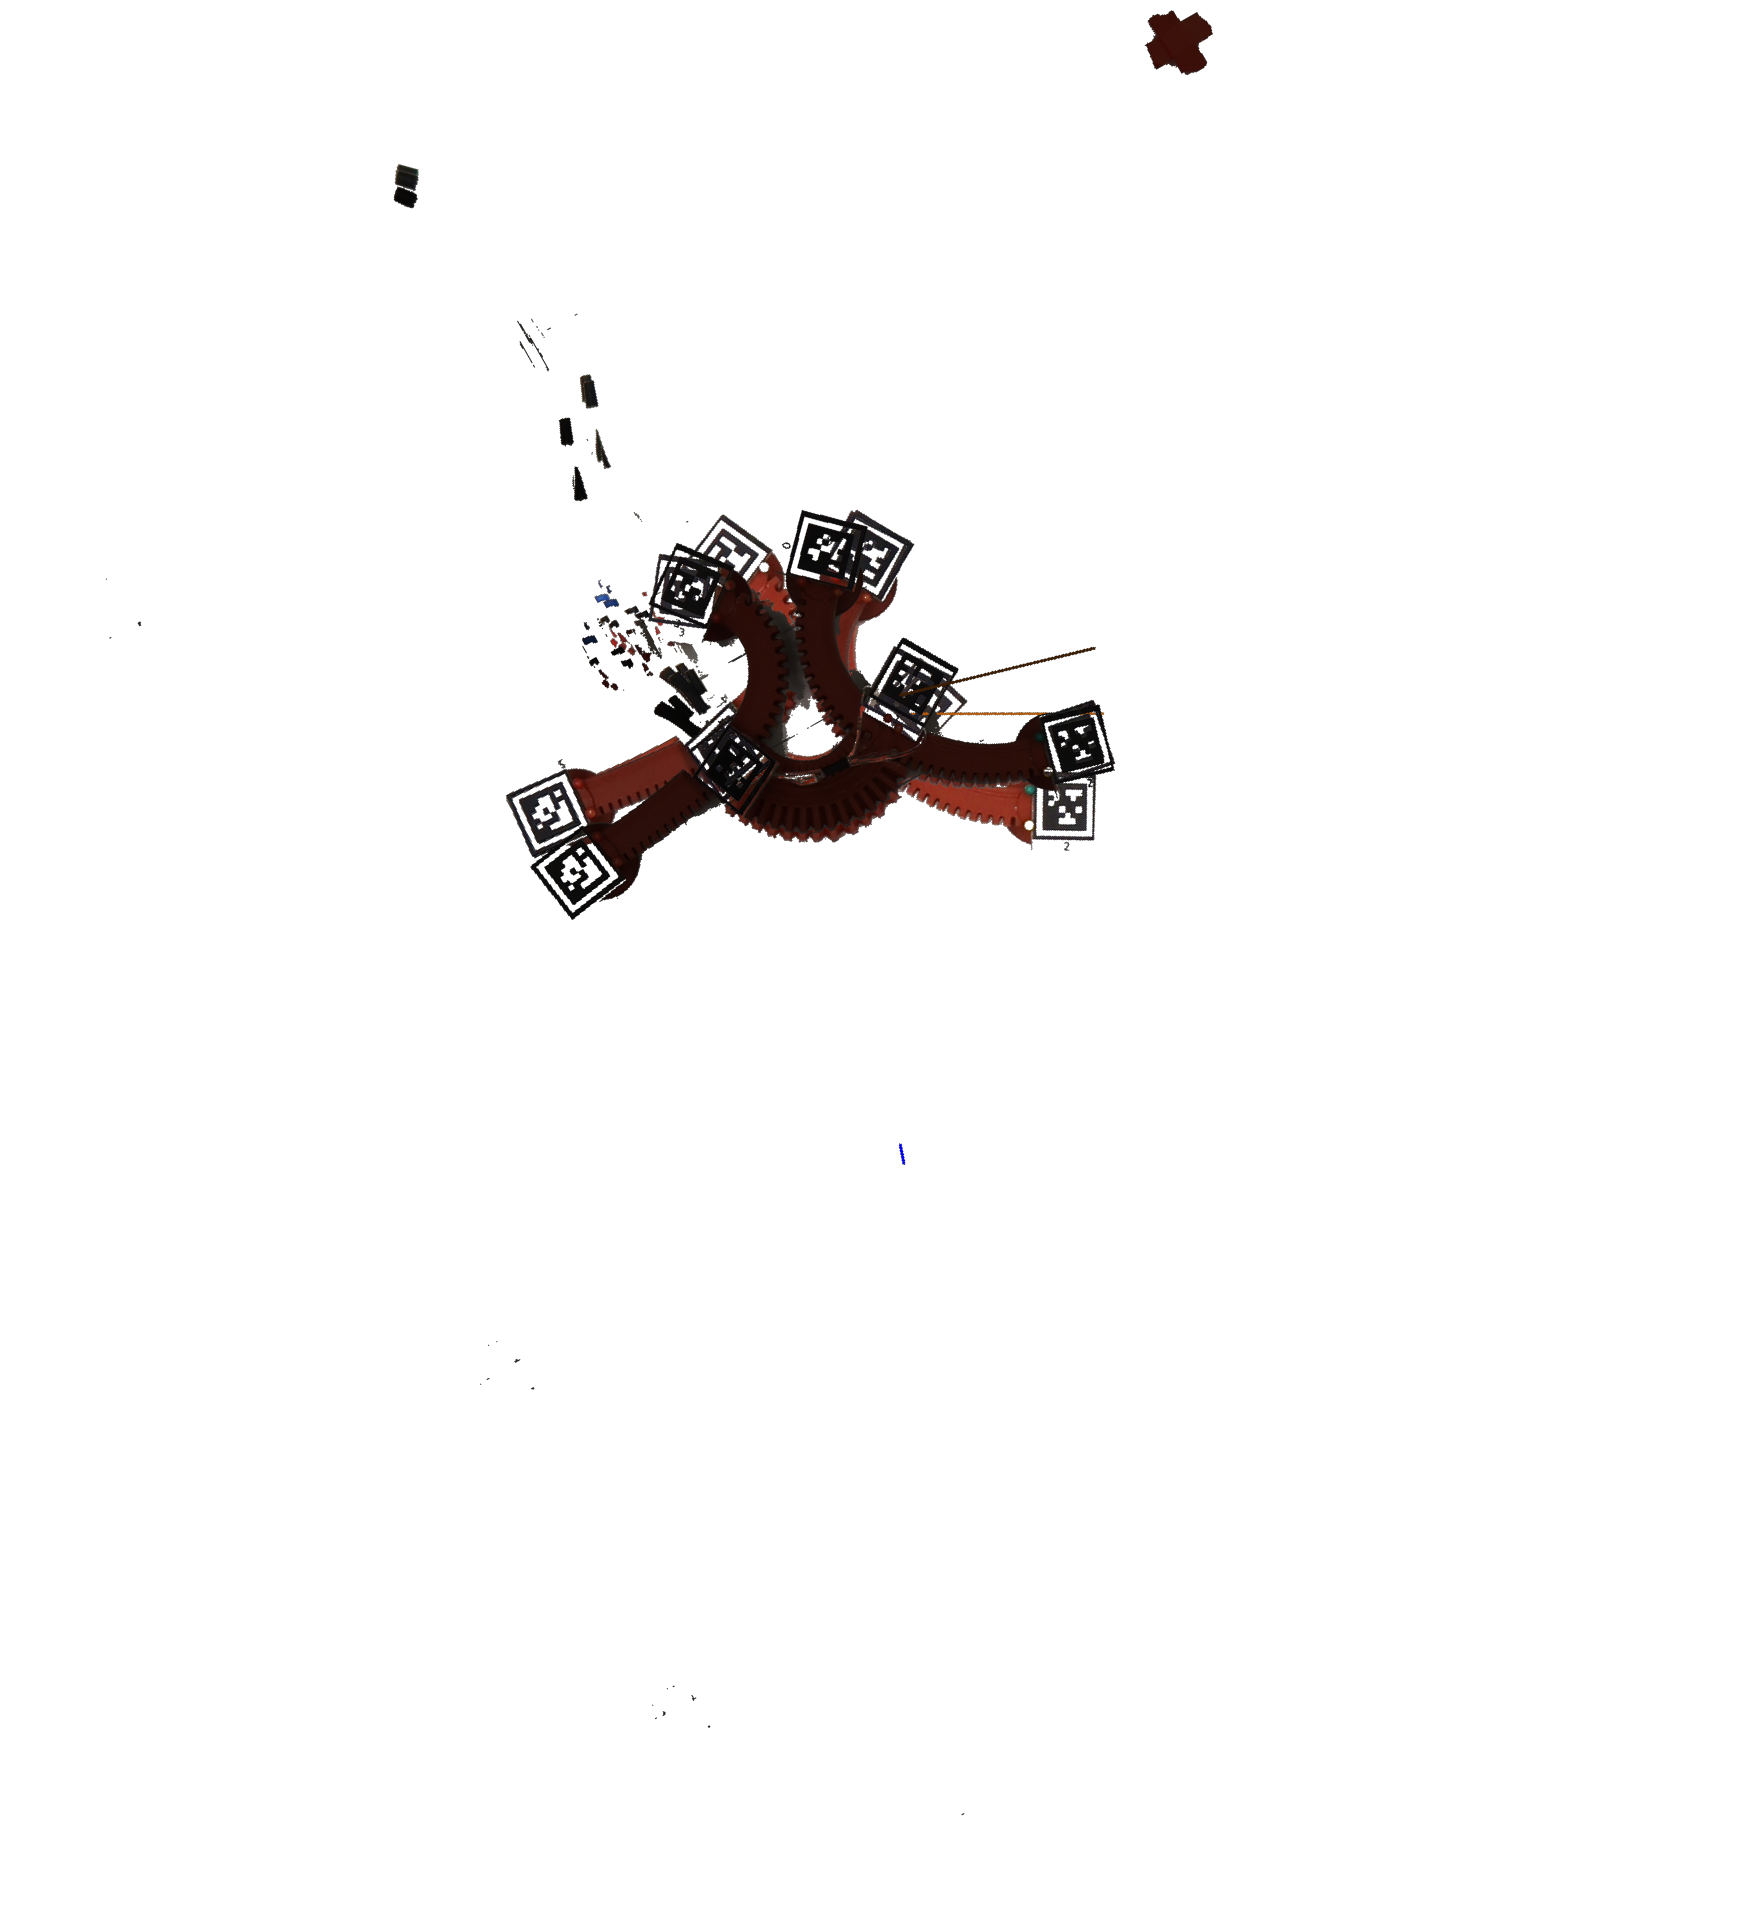
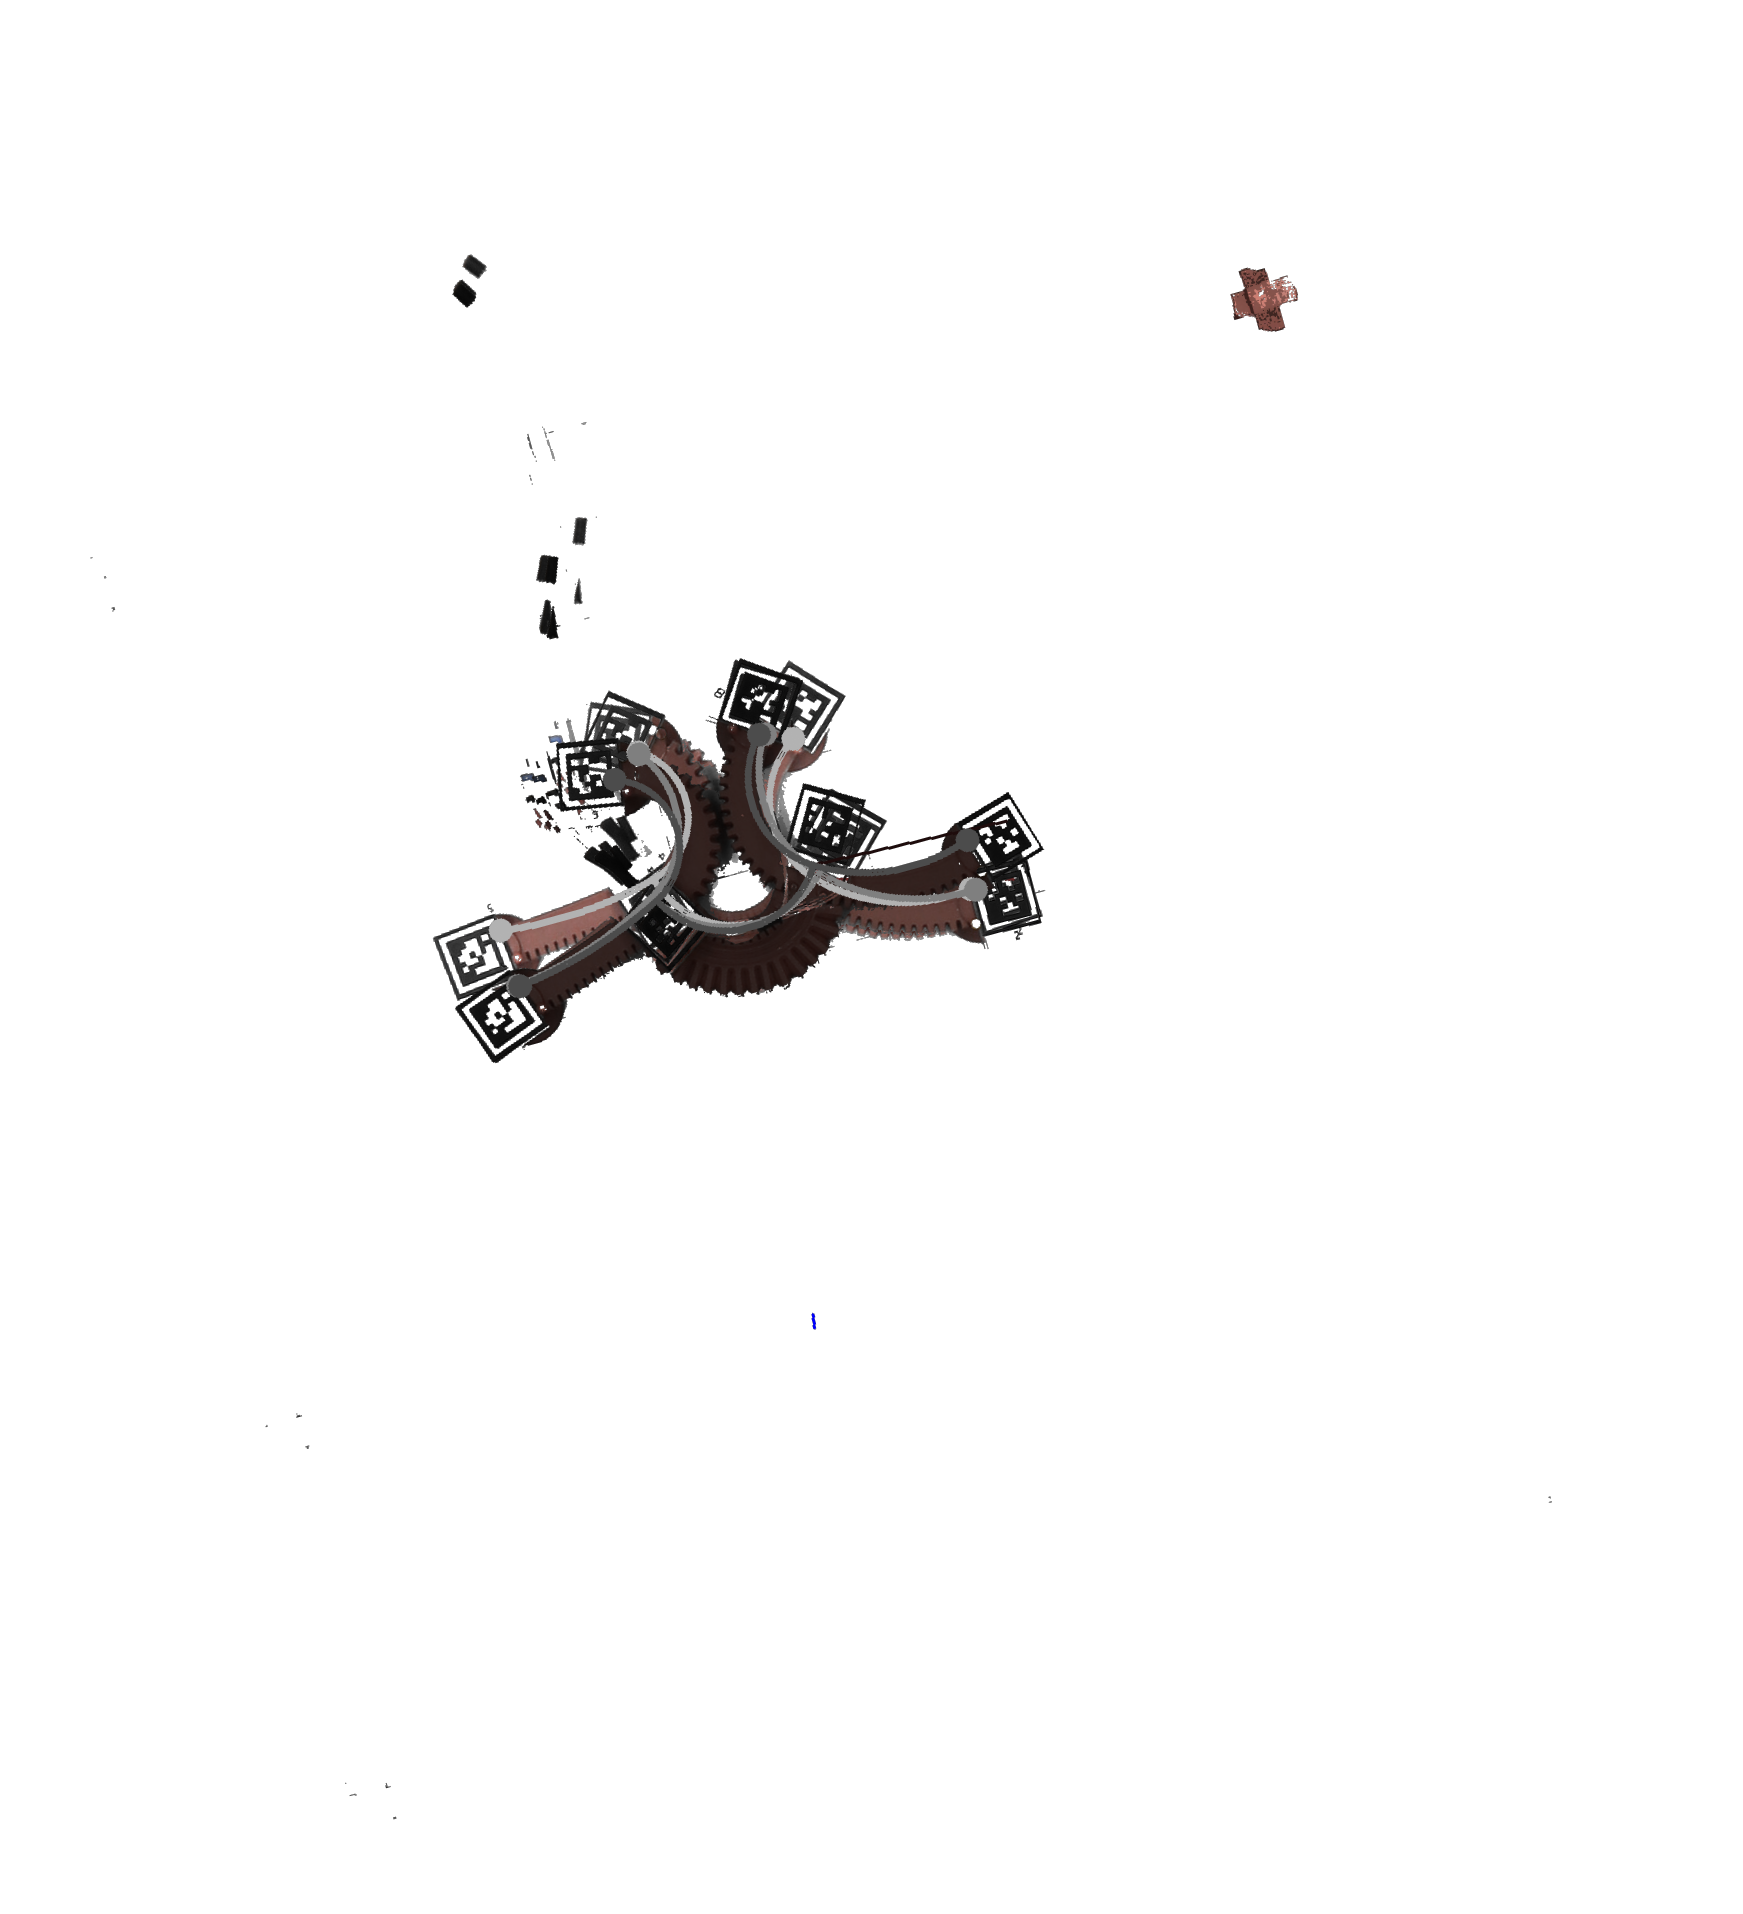
ref RALexp eval: add extracted poses

diff --git a/2020_08_RALexpRedo/eval_pics.py b/2020_08_RALexpRedo/eval_pics.py
@@ -7,6 +7,7 @@ Created on Mon Aug  3 13:30:46 2020
 """
 
 import cv2
+import time
 
 import numpy as np
 
@@ -23,9 +24,9 @@ import merge_img
 
 
 modes = [
-        'straight_1',
-        'straight_2',
-        'straight_3',
+#        'straight_1',
+#        'straight_2',
+#        'straight_3',
         'curve_1',
         'curve_2',
         'curve_3',
@@ -33,7 +34,7 @@ modes = [
 
 version = 'vS12'
 
-len_leg, len_tor = [158, 190]  # in px
+len_leg, len_tor = [162, 195]  # in px
 
 ell0 = [len_leg, len_leg, len_tor, len_leg, len_leg]
 
@@ -42,7 +43,7 @@ ell0 = [len_leg, len_leg, len_tor, len_leg, len_leg]
 
 
 n_poses = 3
-start_idx = 2
+start_idx = 5  # 2 or straight | 5 for curve
 
 
 def line_normal(img_exp, point, eps, h, col=(.5,.5,.5,1)):
@@ -53,20 +54,55 @@ def line_normal(img_exp, point, eps, h, col=(.5,.5,.5,1)):
     cv2.line(img_exp, point0, point1, col, 2)
 
 
+def increase_brightness(img, value=30):
+    hsv = cv2.cvtColor(img, cv2.COLOR_BGR2HSV)
+    h, s, v = cv2.split(hsv)
+
+    lim = 255 - value
+    v[v > lim] = 255
+    v[v <= lim] += value
+
+    final_hsv = cv2.merge((h, s, v))
+    img = cv2.cvtColor(final_hsv, cv2.COLOR_HSV2BGR)
+    return img
+
+
+def change_saturation(img, value=30):
+    hsv = cv2.cvtColor(img, cv2.COLOR_BGR2HSV)
+    h, s, v = cv2.split(hsv)
+
+    if value >= 0:    
+        lim_upper = 255 - value
+        s[s > lim_upper] = 255
+        s[s <= lim_upper] += value
+    else:    
+        lim_lower = 0 - value
+        s[s < lim_lower] = 0
+        s[s >= lim_lower] -= abs(value)
+        
+    
+
+    final_hsv = cv2.merge((h, s, v))
+    img = cv2.cvtColor(final_hsv, cv2.COLOR_HSV2BGR)
+    return img
+
 
 for mode in modes:
+    poses = []
     for idx in range(n_poses):
         frame = cv2.imread('pics/'+mode+'/'+mode+'_({}).jpg'.format(idx+start_idx), 1)
+        
+        
 
         # measure
         alpha, eps, positions, xref = IMGprocessing.detect_all(frame)
         X1 = (positions[0][1], positions[1][1])
-        col = (0, 0, 0)
+        col = (0, 0, 100)
 #        IMGprocessing.draw_positions(frame, positions, xref, thick=2, col=col)
 
 #        if idx == 0:
 #            IMGprocessing.draw_eps(frame, X1, eps, color=col, dist=70, thick=2)
-#        IMGprocessing.draw_pose(frame, alpha, eps, positions, ell0, col=col)
+#        IMGprocessing.draw_pose(frame, alpha, eps, positions, ell0, col=col, thickness=2)
         
         if idx%2 == 0:
             alpha = alpha[:2] + [-alpha[3]] + alpha[-2:]
@@ -79,7 +115,7 @@ for mode in modes:
         alpha_opt = alpha_opt[:3] + [-alpha_opt[2]] + alpha_opt[-2:]
         
     
-        col = (10, 100, 200)
+        col = (0, 0, 100)
         if np.isnan(positions_opt[0][1]):
             X1_opt = X1
             eps_opt = eps
@@ -89,8 +125,10 @@ for mode in modes:
             x1_0 = X1_opt
             eps0 = eps_opt
         
-#        IMGprocessing.draw_pose(frame, alpha_opt, eps_opt, positions_opt, ell0,
-#                                col=col)
+#        IMGprocessing.draw_pose(frame, alpha_opt, eps_opt, positions_opt, ell0, col=col, thickness=3)
+        poses.append([alpha_opt, eps_opt, positions_opt, ell0])
+        
+
         if idx == 0 or idx+1 == n_poses:
             IMGprocessing.draw_eps(frame, X1_opt, eps_opt, color=col,
                                    dist=200, thick=2)
@@ -101,11 +139,19 @@ for mode in modes:
         print('coords in main:')
         print('dalp:\t', [round(opt-ori, 2) for ori, opt in zip(alpha, alpha_opt)])
         print('deps:\t', round(eps_opt - eps, 2))
+
+        
+
     # %%    
+        
+        
+        frame = change_saturation(frame, value=-100)
+#        frame = increase_brightness(frame, value=0)
+    
         if idx == 0:
-            img_exp = merge_img.merge_pics(frame, fg_opa=.1)
+            img_exp = merge_img.merge_pics(frame, fg_opa=0)
         else:
-            opa = .01 + (.7)*idx/(n_poses-1)
+            opa = (.7)*idx/(n_poses-1)
             img_exp = merge_img.merge_pics(frame, img_exp, fg_opa=opa)
         if idx+1 == n_poses:
             (h, w) = img_exp.shape[:2]
@@ -119,15 +165,53 @@ for mode in modes:
                 line_normal(img_exp, x1_0, eps0, h)
                 line_normal(img_exp, X1_opt, eps0, h)
 
-    # %% rotate
+
+    # %% draw extracted poses
+
+    for jdx, pose in enumerate(poses):
+        col = [.7-jdx*.4/(len(poses)-1)]*3 + [1]
+        alpha_opt, eps_opt, positions_opt, ell0 = pose
+        IMGprocessing.draw_pose(img_exp, alpha_opt, eps_opt, positions_opt, ell0, col=col, thickness=3)
+
+        
+    
+
+   # %% rotate
     h, w = img_exp.shape[:2]
     center = (w/2, h/2)
-    M = cv2.getRotationMatrix2D(center, -eps0, 1)
-#    M = cv2.getRotationMatrix2D(center, 0, 1)
+    M = cv2.getRotationMatrix2D(x1_0, -eps0, 1)
+#    M = cv2.getRotationMatrix2D(center, -eps0, 1)
 
     img_exp = cv2.warpAffine(img_exp, M, (h,w))
+
     cv2.imwrite('Out/'+mode+'.png', img_exp*255)
+
+# %% crop
+    x0, y0 = x1_0
+    print('y0:', y0)
+    if mode[:8] == 'straight':
+        if mode[-1] == '1':
+            crop_img = img_exp[y0-250:y0+250, x0-410:x0+530,:]
+        if mode[-1] == '2':
+            crop_img = img_exp[y0-330:y0+170, x0-430:x0+510,:]
+        if mode[-1] == '3':
+            crop_img = img_exp[y0-550:y0-50, x0-360:x0+580,:]
+
+    if mode[:5] == 'curve':
+        if mode[-1] == '1':
+            crop_img = img_exp[y0-290:y0+250, x0-430:x0+290,:]
+        if mode[-1] == '2':
+            crop_img = img_exp[y0-290:y0+250, x0-410:x0+310,:]
+        if mode[-1] == '3':
+            crop_img = img_exp[y0-330:y0+210, x0-430:x0+290,:]
+
+
+## %% save   
+#    img_exp = cv2.cvtColor(img_exp, cv2.COLOR_BGR2GRAY)
+    cv2.imwrite('Out/'+mode+'_cropped_.png', crop_img*255)
 
 #    cv2.imshow('frame', img_exp)
 #    cv2.waitKey(0)
 #    cv2.destroyAllWindows()
+
+

diff --git a/Src/IMGprocessing.py b/Src/IMGprocessing.py
@@ -55,12 +55,12 @@ def detect_apriltags(frame):
 
 def extract_position(april_result):
     SHIFT = {  # xshift, yshift
-        0: [10, 5],
-        1: [0, -15],
-        2: [-10, 5],
-        3: [10, -5],
-        4: [0, -9],
-        5: [-12, -5],
+        0: [30, 15],
+        1: [0, -40],
+        2: [-30, 15],
+        3: [30, -15],
+        4: [0, -20],
+        5: [-30, -15],
             }
     X, Y = [np.nan]*6, [np.nan]*6
     xref = (np.nan, np.nan)
@@ -159,16 +159,20 @@ def calc_angle(vec1, vec2, rotate_angle=0., jump=np.pi*.5):
     return -phi2
 
 
-def draw_pose(img, alpha, eps, positions, ell, col=(255, 255, 255)):
+def draw_pose(img, alpha, eps, positions, ell, col=(255, 255, 255), thickness=1):
+    yshift = img.shape[0]
     alpha = alpha[0:3] + alpha[4:]  # remove double torso measurement
     xpos, ypos = positions
+    for idx, (x, y) in enumerate(zip(xpos, ypos)):
+        if idx not in [1, 4]:
+            cv2.circle(img, (int(x), int(yshift-y)), thickness*4, col, -1)
+
     (xa, ya) = get_repr(alpha, ell, eps, [xpos[0], ypos[0]])
-    yshift = img.shape[0]
     for x, y in zip(xa, ya):
-        cv2.circle(img, (int(x), int(yshift-y)), 1, col)
+        cv2.circle(img, (int(x), int(yshift-y)), thickness, col)
 
 
-arc_res = 40    # resolution of arcs
+arc_res = 200    # resolution of arcs
 
 def _calc_arc_coords(xy, alp1, alp2, rad):
     x0, y0 = xy
